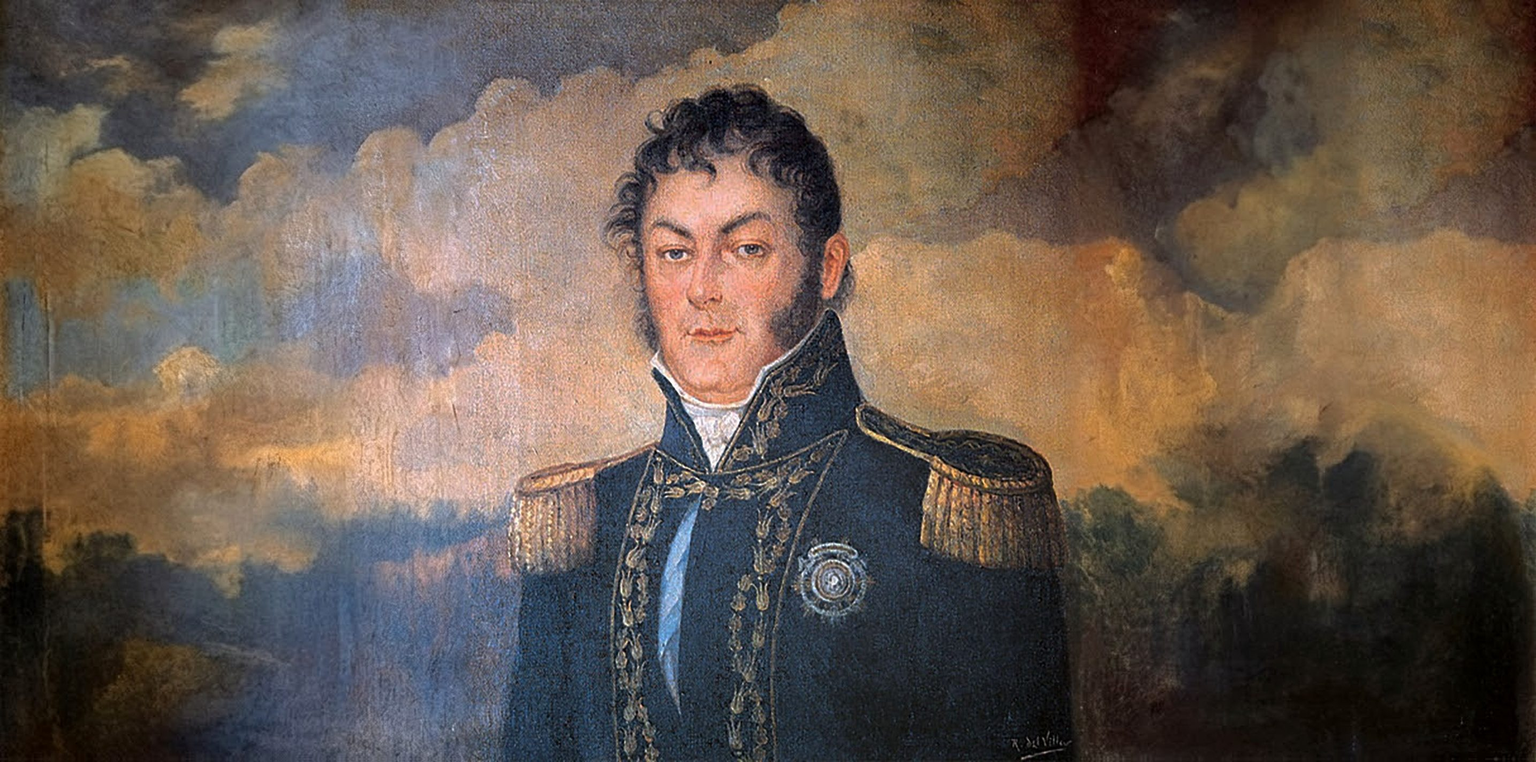
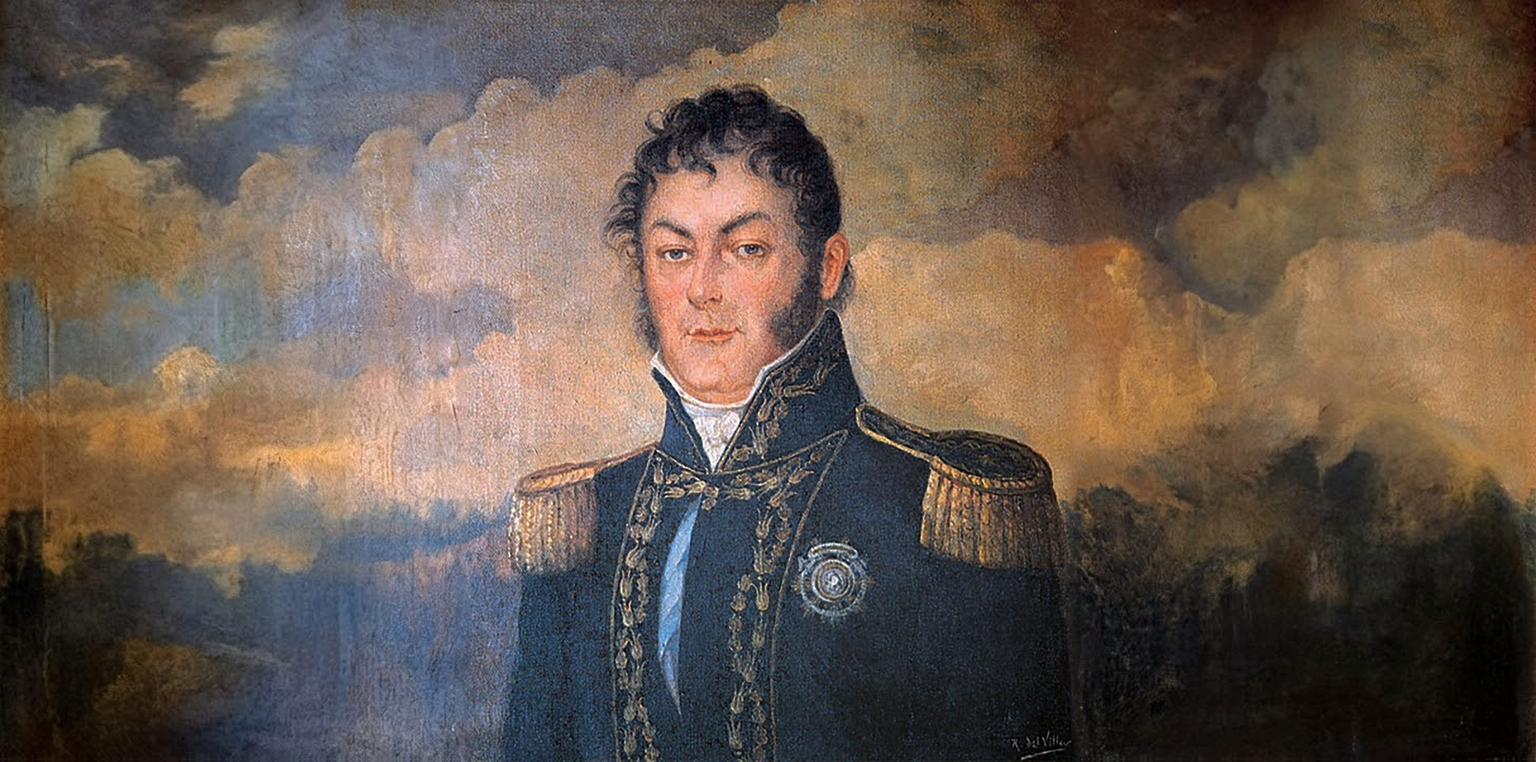
fix(assets): invisible right seam in the panorama (local color match)
Adds the S2.f seam metric to scripts/build_panorama.py (24 px strips on
both sides of each feather band, 32-row blocks, max RGB distance, exit
non-zero above 45) and a per-row low-frequency color match of the Gemini
sides before pasting. Seam max before: left 55.2, right 78.7 (rows
192-223); after: left 37.3, right 27.5. S2.e 1.80/255, 566 619 bytes.

Refs: T1d (S2.f) in odd/tasks/landing-pueyrredon.md

Claude-Session: https://claude.ai/code/session_014GVJ2SRgQawxeLtUmD8ruJ

diff --git a/scripts/build_panorama.py b/scripts/build_panorama.py
@@ -12,14 +12,21 @@ Pasos
      original (recorta o rellena reflejando el borde).
   3. Ajusta el color de Gemini al del original: mapa lineal por canal (ganancia, sesgo)
      a partir de media y desvio sobre la region de solapamiento, sin las franjas de fundido.
-  4. Pega el original a resolucion nativa con un fundido horizontal (smoothstep) de
+  4. Correccion de color local (S2.f), por fila y en cada union: el color de baja frecuencia (gaussiano de
+     LOCAL_BLUR px) del lado de Gemini pasa a ser una rampa suave (smoothstep) entre el color del original justo
+     dentro de la franja de fundido y el que Gemini ya tiene a LOCAL_REACH px de la union; el detalle fino de
+     Gemini se conserva y los colores de referencia se suavizan entre filas (LOCAL_SIGMA). Elimina la franja
+     rojiza que dejaban el ajuste global y el valle oscuro que Gemini pinta junto al borde del original.
+  5. Pega el original a resolucion nativa con un fundido horizontal (smoothstep) de
      FEATHER px en sus bordes izquierdo y derecho.
-  5. Guarda el JPEG (RGB, progresivo, sin metadatos, <= MAX_BYTES) y verifica S2.e sobre
-     el archivo guardado: la region central coincide con el original (error medio < 3/255).
-  6. Imprime el desplazamiento del pegado y la caja de la cabeza en px del panorama.
+  6. Guarda el JPEG (RGB, progresivo, sin metadatos, <= MAX_BYTES) y verifica sobre el
+     archivo guardado S2.e (la region central coincide con el original, error medio < 3/255)
+     y S2.f (uniones invisibles: ver seam_report).
+  7. Imprime el desplazamiento del pegado y la caja de la cabeza en px del panorama.
 
 Uso (desde la raiz del repo):  python3 -I scripts/build_panorama.py
-Sale con codigo != 0 si no logra registrar, ajustar el peso o verificar S2.e.
+  --sin-correccion-local   omite el paso 4 (reproduce la version anterior; debe fallar S2.f)
+Sale con codigo != 0 si no logra registrar, ajustar el peso o verificar S2.e o S2.f.
 """
 import os
 import sys
@@ -37,6 +44,13 @@ HEAD_BOX = (270, 150, 760, 710)  # x1, y1, x2, y2 en px del original (S2)
 MAX_BYTES = 700 * 1000  # S2.b: <= 700 KB
 QUALITY_START, QUALITY_MIN, QUALITY_STEP = 82, 72, 2
 MAE_LIMIT = 3.0  # S2.e: error absoluto medio < 3 sobre 255
+LOCAL_BLUR = 24.0  # px, desvio del gaussiano que separa el color de baja frecuencia del detalle de Gemini
+LOCAL_SIGMA = 40.0  # px, desvio del gaussiano vertical que suaviza los colores de referencia entre filas
+LOCAL_GAP_FROM, LOCAL_GAP_FULL = 16.0, 32.0  # distancia RGB en la union: sin correccion / correccion plena
+LOCAL_REACH = 300  # px hacia afuera del borde hasta que la correccion cae a 0
+SEAM_STRIP = 24  # S2.f: ancho de cada franja que se compara a los lados de una union
+SEAM_BLOCK = 32  # S2.f: filas por bloque
+SEAM_LIMIT = 45.0  # S2.f: distancia RGB maxima (0-441) entre franjas, por bloque y union (antes 55.2 / 78.7; ahora 37.3 / 27.5)
 
 COARSE_SCALES = np.arange(0.47, 0.54 + 1e-9, 0.005)
 COARSE_RADIUS, COARSE_STEP = 16, 2  # px de busqueda alrededor del centro
@@ -139,11 +153,90 @@ def color_match(canvas, original, px, band):
     return np.clip(canvas * gain + bias, 0, 255), gain, bias
 
 
+def gaussian_blur(values, sigma, axis):
+    """Gaussiano 1D a lo largo de `axis` (borde reflejado, convolucion por FFT) de un arreglo float."""
+    radius = int(np.ceil(4 * sigma))
+    kernel = np.exp(-0.5 * (np.arange(-radius, radius + 1) / sigma) ** 2)
+    kernel /= kernel.sum()
+    moved = np.moveaxis(values, axis, 0)
+    padded = np.pad(moved, [(radius, radius)] + [(0, 0)] * (moved.ndim - 1), mode="reflect")
+    size = padded.shape[0] + kernel.size - 1
+    shape = (kernel.size,) + (1,) * (moved.ndim - 1)
+    blurred = np.fft.irfft(np.fft.rfft(padded, size, axis=0) * np.fft.rfft(kernel.reshape(shape), size, axis=0), size, axis=0)
+    return np.moveaxis(blurred[2 * radius:2 * radius + moved.shape[0]], 0, axis)
+
+
+def smoothstep(t):
+    t = np.clip(t, 0.0, 1.0)
+    return t * t * (3 - 2 * t)
+
+
+def match_right_seam(canvas, original, edge):
+    """Corrige el color de Gemini a la derecha del borde derecho del original (columna `edge` = primera de Gemini).
+    Por fila y, el color de baja frecuencia a lo largo de la distancia d al borde pasa a ser una rampa suave (smoothstep)
+    entre el color del original justo dentro de la franja de fundido (mapa O) y el color de baja frecuencia que Gemini
+    ya tiene a LOCAL_REACH px (mapa L lejos); el detalle de Gemini por debajo de LOCAL_BLUR px se conserva. Se aplica
+    desde el inicio de la franja de fundido hasta LOCAL_REACH px fuera y vale 0 mas alla. Modifica `canvas` in situ."""
+    ow = original.shape[1]
+    x0, x1 = edge - FEATHER, edge + LOCAL_REACH + 1
+    pad = int(np.ceil(4 * LOCAL_BLUR))
+    window = canvas[:, x0 - pad:x1 + pad]
+    low = gaussian_blur(gaussian_blur(window, LOCAL_BLUR, 1), LOCAL_BLUR, 0)[:, pad:pad + (x1 - x0)]  # H x (x1-x0) x 3
+    inner = original[:, ow - FEATHER - SEAM_STRIP:ow - FEATHER].mean(axis=1)  # H x 3, franja interior (la de S2.f)
+    inner = gaussian_blur(inner, LOCAL_SIGMA, 0)
+    far = gaussian_blur(low[:, -1], LOCAL_SIGMA, 0)
+    s = smoothstep((np.arange(x1 - x0) + 0.5) / (x1 - x0))[None, :, None]
+    target = inner[:, None, :] * (1 - s) + far[:, None, :] * s
+    # Solo se corrige donde hace falta: segun la discontinuidad de la fila (distancia RGB entre el color del original y el
+    # de Gemini junto al borde), la correccion pasa de 0 (<= LOCAL_GAP_FROM) a plena (>= LOCAL_GAP_FULL) con smoothstep.
+    # Asi las filas donde la union ya era buena conservan los colores de Gemini (bosque, cielo anaranjado).
+    gap = np.linalg.norm(inner - low[:, FEATHER + SEAM_STRIP // 2], axis=1)
+    strength = smoothstep((gap - LOCAL_GAP_FROM) / (LOCAL_GAP_FULL - LOCAL_GAP_FROM))
+    correction = (target - low) * strength[:, None, None]
+    correction[:, -1:] = 0.0
+    canvas[:, x0:x1] = np.clip(canvas[:, x0:x1] + correction, 0, 255)
+    return float(np.abs(correction).max()), correction[:, FEATHER].mean(axis=0)
+
+
+def local_color_match(canvas, original, px):
+    """Aplica match_right_seam a las dos uniones (la izquierda se trabaja espejada). Devuelve (lienzo, resumen)."""
+    ow = original.shape[1]
+    width = canvas.shape[1]
+    out = canvas.copy()
+    summary = {}
+    summary["derecha"] = match_right_seam(out, original, px + ow)
+    mirrored = out[:, ::-1].copy()
+    summary["izquierda"] = match_right_seam(mirrored, original[:, ::-1], width - px)
+    return mirrored[:, ::-1].copy(), summary
+
+
 def smoothstep_ramp(width, feather):
     """Alfa por columna: 0->1 en los primeros `feather` px y 1->0 en los ultimos (smoothstep)."""
     t = np.clip((np.arange(width) + 0.5) / feather, 0.0, 1.0)
     left = t * t * (3 - 2 * t)
     return np.minimum(left, left[::-1]).astype(np.float32)
+
+
+def seam_report(rgb, px, width):
+    """S2.f: para cada union (borde izquierdo y derecho del original pegado en px, de ancho `width`) y cada bloque
+    de SEAM_BLOCK filas, distancia euclidea RGB entre el color medio de la franja de SEAM_STRIP px del lado de
+    Gemini (justo fuera del original) y el de la franja de SEAM_STRIP px del lado del original justo despues de la
+    franja de fundido. Devuelve {nombre: (maximo, fila inicial del peor bloque)}."""
+    strips = {
+        "izquierda": ((px - SEAM_STRIP, px), (px + FEATHER, px + FEATHER + SEAM_STRIP)),
+        "derecha": ((px + width, px + width + SEAM_STRIP), (px + width - FEATHER - SEAM_STRIP, px + width - FEATHER)),
+    }
+    report = {}
+    for name, (gemini, original) in strips.items():
+        worst, worst_row = 0.0, 0
+        for row in range(0, rgb.shape[0] - SEAM_BLOCK + 1, SEAM_BLOCK):
+            a = rgb[row:row + SEAM_BLOCK, gemini[0]:gemini[1]].reshape(-1, 3).mean(axis=0)
+            b = rgb[row:row + SEAM_BLOCK, original[0]:original[1]].reshape(-1, 3).mean(axis=0)
+            distance = float(np.linalg.norm(a - b))
+            if distance > worst:
+                worst, worst_row = distance, row
+        report[name] = (worst, worst_row)
+    return report
 
 
 def save_jpeg(array, path):
@@ -155,6 +248,9 @@ def save_jpeg(array, path):
         if size <= MAX_BYTES:
             return quality, size
     fail(f"el panorama pesa {size} bytes con calidad {QUALITY_MIN}; el limite es {MAX_BYTES}")
+
+
+LOCAL_MATCH = "--sin-correccion-local" not in sys.argv[1:]  # esa opcion reproduce el panorama anterior (evidencia RED de S2.f)
 
 
 def main():
@@ -181,13 +277,19 @@ def main():
     canvas, gain, bias = color_match(canvas, original_rgb, px, FEATHER)
     print("mapa de color (R, G, B) ganancia:", " ".join(f"{g:.4f}" for g in gain), "| sesgo:", " ".join(f"{b:+.2f}" for b in bias))
 
-    # 4. Pegado con fundido horizontal
+    # 4. Correccion de color local en las uniones (S2.f)
+    if LOCAL_MATCH:
+        canvas, summary = local_color_match(canvas, original_rgb, px)
+        for name, (peak, mean) in summary.items():
+            print(f"correccion local {name}: maximo {peak:.1f}, en el borde (R, G, B) {' '.join(f'{m:+.1f}' for m in mean)}")
+
+    # 5. Pegado con fundido horizontal
     alpha = smoothstep_ramp(ow, FEATHER)[None, :, None]
     canvas[py:py + oh, px:px + ow] = alpha * original_rgb + (1 - alpha) * canvas[py:py + oh, px:px + ow]
     panorama = np.clip(np.rint(canvas), 0, 255).astype(np.uint8)
     height, width = panorama.shape[:2]
 
-    # 5-6. Guardado y verificacion (S2.e) sobre el archivo guardado
+    # 6. Guardado y verificacion (S2.e, S2.f) sobre el archivo guardado
     tmp = OUTPUT + ".tmp"
     try:
         quality, size = save_jpeg(panorama, tmp)
@@ -198,6 +300,12 @@ def main():
         mae = float(np.abs(centre - reference).mean())
         if not mae < MAE_LIMIT:
             fail(f"S2.e: el error absoluto medio de la region central es {mae:.3f} (limite {MAE_LIMIT})")
+        seams = seam_report(saved_rgb, px, ow)
+        for name, (worst, row) in seams.items():
+            print(f"S2.f union {name}: maximo {worst:.2f} (limite {SEAM_LIMIT}), peor bloque filas {row}-{row + SEAM_BLOCK - 1}")
+        failed = [name for name, (worst, _) in seams.items() if not worst < SEAM_LIMIT]
+        if failed:
+            fail(f"S2.f: union {' y '.join(failed)} supera {SEAM_LIMIT} (distancia RGB entre franjas de {SEAM_STRIP} px)")
         os.replace(tmp, OUTPUT)
     finally:
         if os.path.exists(tmp):

diff --git a/README.md b/README.md
@@ -45,7 +45,7 @@ Landing de una sola pantalla con el formato minimalista de tamburins.com (solo e
 npm install   # dependencias de desarrollo (Playwright, http-server)
 npm start     # sirve el sitio en http://127.0.0.1:4173
 npm test      # tests Playwright (Chromium): 59 en total
-python3 -I scripts/build_panorama.py   # regenera assets/img/pueyrredon-panorama.jpg (requiere Pillow y numpy)
+python3 -I scripts/build_panorama.py   # regenera assets/img/pueyrredon-panorama.jpg y verifica S2.e y S2.f (requiere Pillow y numpy)
 ```
 
 - Requiere Node 18 o superior.
